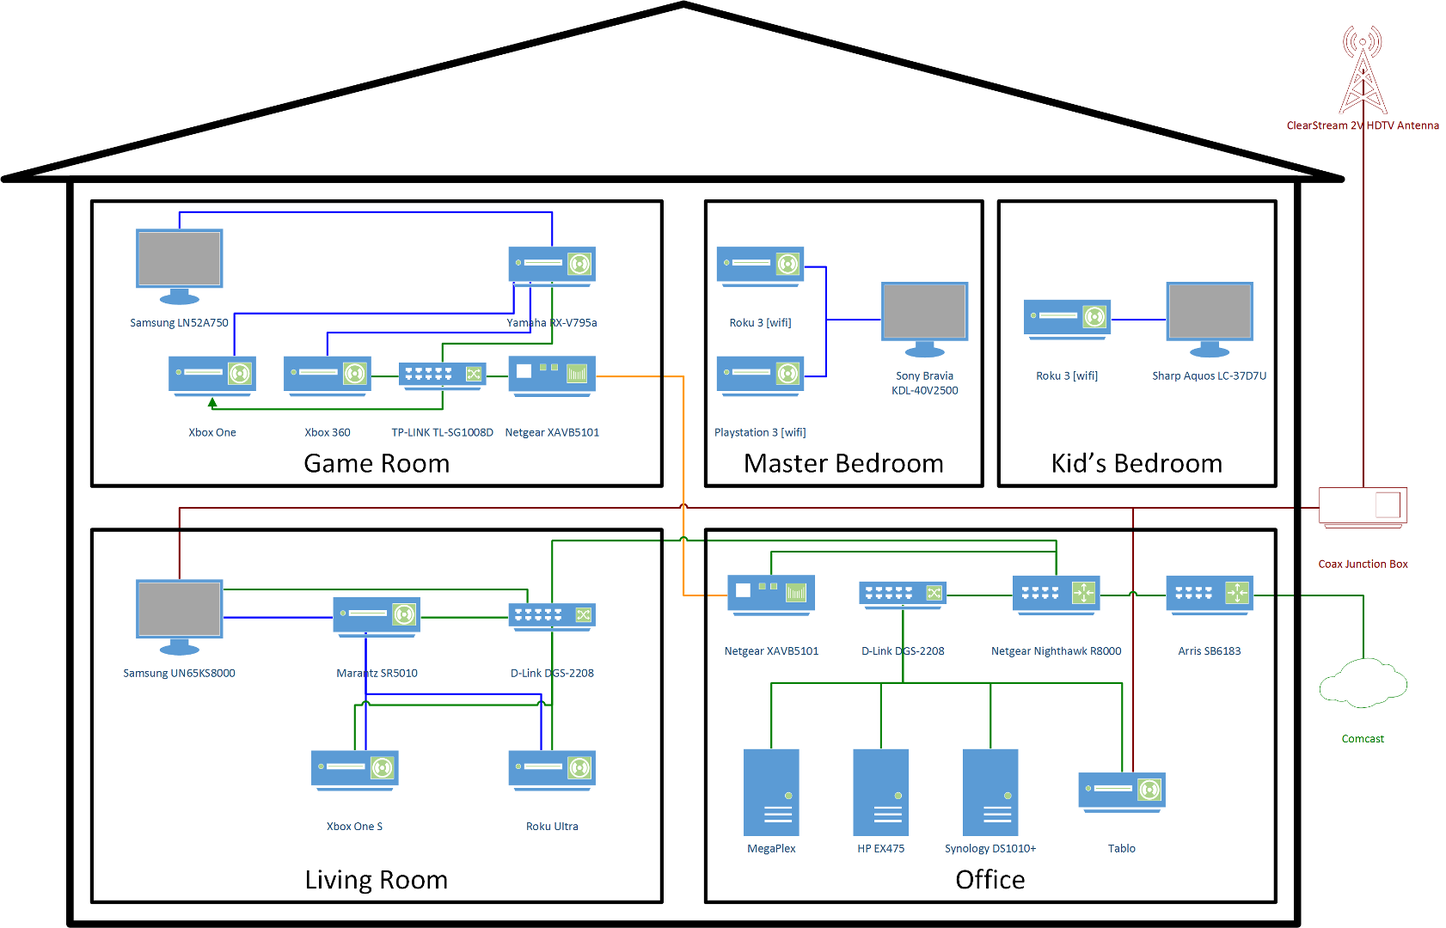
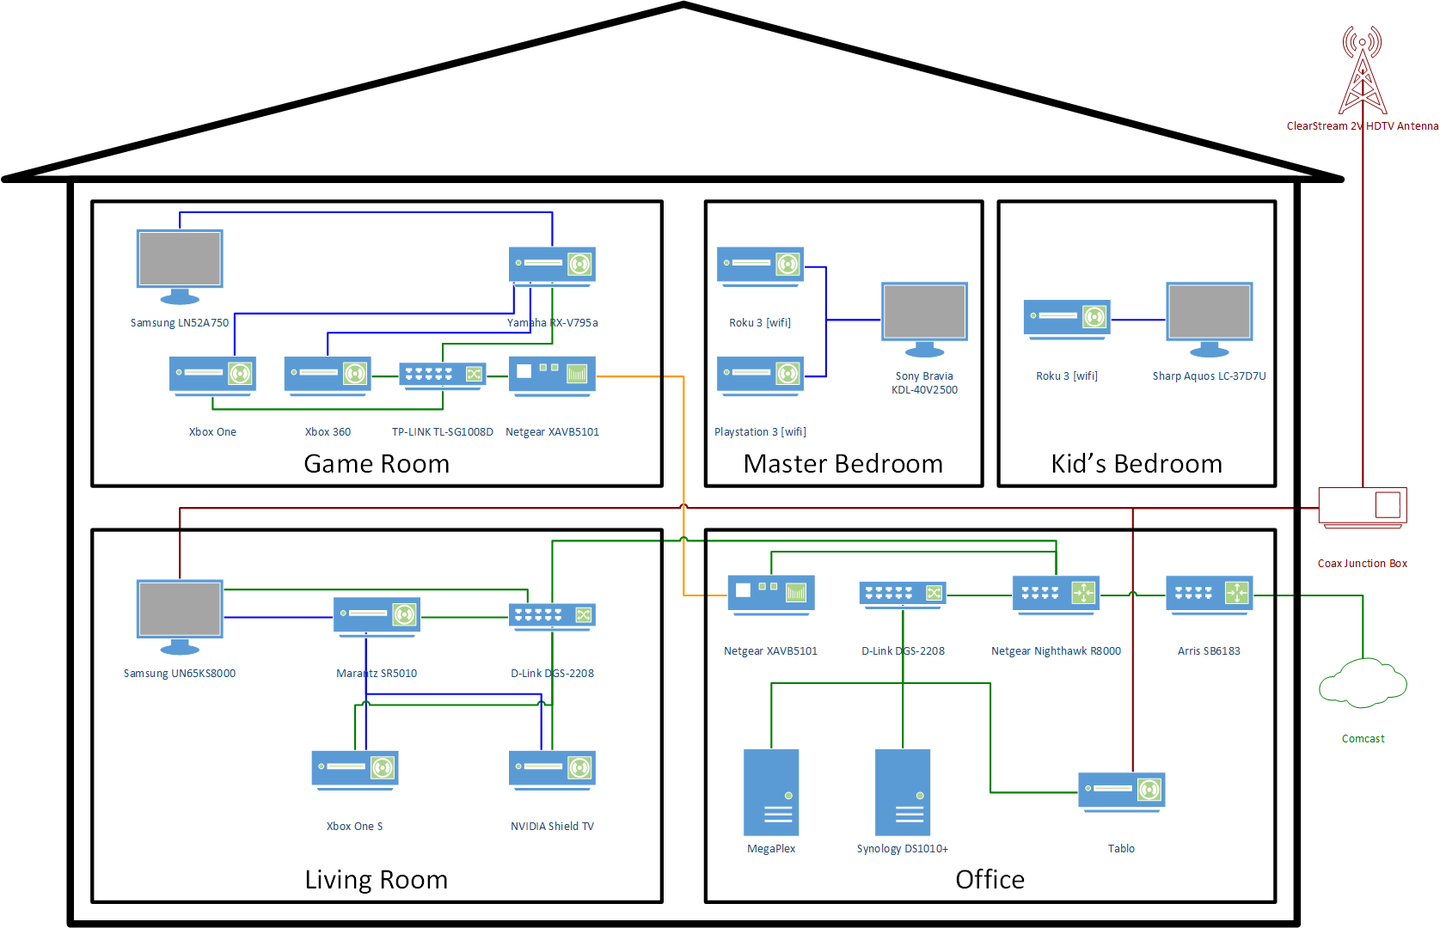
Major update to bring everything to current.

diff --git a/docs/hardware/deprecated/hpex475.rst b/docs/hardware/deprecated/hpex475.rst
@@ -2,7 +2,7 @@
 HP EX475 MediaSmart
 ===================
 
-I bought an HP EX475 MediaSmart server with :doc:`Windows Home Server v1 <../../software/deprecated/whs>` on it as my first foray into serving media and general media storage. In February 2016 I switched the OS to be :doc:`Windows Server 2012 with Windows Server Essentials <../../software/system/wse>`.
+I bought an HP EX475 MediaSmart server with :doc:`Windows Home Server v1 <../../software/deprecated/whs>` on it as my first foray into serving media and general media storage. In February 2016 I switched the OS to be :doc:`Windows Server 2012 with Windows Server Essentials <../../software/deprecated/wse>`.
 
 - 2GB RAM (upgraded)
 - AMD Sempron Processor 3400+ (upgraded)
@@ -24,7 +24,7 @@ There is a defect in WHS where the serial number of the drives inside the EX475 
 
 RAID Controller
 ---------------
-I discovered while setting up :doc:`Windows Server 2012 with Windows Server Essentials <../../software/system/wse>` that the OS actually sees the drives as a RAID-controlled array to be provisioned, not as separate SATA disks. **This makes it incompatible with Storage Spaces.** You can't allocate RAID disks into a Storage Space - you have to use RAID instead. I ended up putting the three 1TB drives into a RAID 5 configuration to balance storage and resilience.
+I discovered while setting up :doc:`Windows Server 2012 with Windows Server Essentials <../../software/deprecated/wse>` that the OS actually sees the drives as a RAID-controlled array to be provisioned, not as separate SATA disks. **This makes it incompatible with Storage Spaces.** You can't allocate RAID disks into a Storage Space - you have to use RAID instead. I ended up putting the three 1TB drives into a RAID 5 configuration to balance storage and resilience.
 
 WD Green Drives
 ---------------
@@ -45,7 +45,7 @@ eSATA Port Multiplier
 ---------------------
 I have a Rosewill RSV-S5 5-bay eSATA port multiplier. While it can support RAID configurations, I use it as JBOD ("Just a Bunch Of Disks"). There is `a review of a Sans Digital port multiplier similar to what I have here <http://www.mediasmartserver.net/2009/01/15/review-sans-digital-towerraid-tr5m-esata-storage-enclosure/>`_ and it says the EX475 will only recognize four of the five drives in a five-drive multiplier while the EX495 will see all five. I never put more than four drives in it so I can't say.
 
-After moving the big storage to the :doc:`Synology DS1010+ <synologyds1010>` I disconnected the port multiplier because it wasn't needed anymore, it was a tad noisy, and it ate power.
+After moving the big storage to the :doc:`Synology DS1010+ <../server/synologyds1010>` I disconnected the port multiplier because it wasn't needed anymore, it was a tad noisy, and it ate power.
 
 
 CPU / RAM
@@ -63,13 +63,13 @@ The stock Marvell SATA controller driver is 1.2.0.46. I tried upgrading the "Mar
 
 `This site says the EX470 (same internals as EX475, different drive configuration out of the box) has a Marvell 88SE6111 SATA controller <http://www.smallnetbuilder.com/content/view/30135/75/1/2/>`_, so I thought I'd be looking for drivers for that, but `this upgrade tutorial <http://www.homeserverhacks.com/2008/11/update-marvell-6121-esata-driver.html>`_ uses the 6121 drivers and even provides a link to 1.2.0.57. `This article also uses the 1.2.0.57 drivers <http://viztaview.wordpress.com/2009/03/05/drivers-for-hp-ex-47-mediasmart-servers/>`_. Most times we're looking at the WinXP 32-bit drivers for upgrade.
 
-I stopped fussing with the Marvell SATA drivers when I moved storage to the :doc:`Synology DS1010+ <synologyds1010>`.
+I stopped fussing with the Marvell SATA drivers when I moved storage to the :doc:`Synology DS1010+ <../server/synologyds1010>`.
 
 WNAS Driver
 -----------
 There appears to be a defect with the WNAS driver where it reports high heat on the VRM (voltage regulator module). It's been ongoing since I got the machine. All drives in the system seem to work fine and the system generally reports healthy. I verified it had nothing to do with eSATA or the port multiplier. I've read on forums where a couple of people have seen this and it always comes out that there is some sort of misreporting problem going on.
 
-The WNAS driver also appears to be what controls the lights on the HP EX475. After updating to :doc:`Windows Server 2012 with Windows Server Essentials <../../software/system/wse>` the lights on the drives and the system health light no longer functioned as they did in the Windows Home Server world.
+The WNAS driver also appears to be what controls the lights on the HP EX475. After updating to :doc:`Windows Server 2012 with Windows Server Essentials <../../software/deprecated/wse>` the lights on the drives and the system health light no longer functioned as they did in the Windows Home Server world.
 
 I found `a forum where someone reverse-engineered the driver for WHS 2011 <http://forum.wegotserved.com/index.php?/topic/18458-hp-ex48x-lights-management-driver-for-whs-2011/>`_ but it doesn't support the HP EX475. They claim they did it by reverse-engineering the WNAS driver. At some point I may look into this.
 
@@ -94,7 +94,7 @@ The 3.0 update does not contain any updated drivers.
 
 Upgrade to Windows Server 2012 Essentials
 =========================================
-January 8, 2013 was the last day of support for :doc:`Windows Home Server v1 <../../software/deprecated/whs>`. In February 2016 I upgraded to :doc:`Windows Server 2012 with Windows Server Essentials <../../software/system/wse>`.
+January 8, 2013 was the last day of support for :doc:`Windows Home Server v1 <../../software/deprecated/whs>`. In February 2016 I upgraded to :doc:`Windows Server 2012 with Windows Server Essentials <../../software/deprecated/wse>`.
 
 I basically followed `this article another person wrote on upgrading <http://www.wegotserved.com/2012/10/12/install-windows-server-2012-essentials-hp-mediasmart-server/>`_. I even made my own debug cable `rather than buying one <http://www.mediasmartserver.net/forums/viewtopic.php?f=6&t=8066>`_.
 
@@ -110,4 +110,4 @@ In June 2016, I noticed things were starting to run really slow. CrashPlan backu
 
 All of that along with the fact that this thing is headless... I lost confidence in the machine. It stopped behaving like an appliance.
 
-I started the process of moving all the data off the WHS machine and onto the :doc:`Synology DS1010+ <synologyds1010>`. I will probably keep it around for workstation backups but will move CrashPlan to a different machine.
+I started the process of moving all the data off the WHS machine and onto the :doc:`Synology DS1010+ <../server/synologyds1010>`. I completed this in late 2017 after moving all backups to IDrive and took the WHS offline.

diff --git a/docs/hardware/server/synologyds1010.rst b/docs/hardware/server/synologyds1010.rst
@@ -26,7 +26,7 @@ Aside: Synology does provide a "Video Station" package that has similar function
 Storage
 =======
 
-    - I have a bunch of WD Green drives I pulled out of my :doc:`Windows Home Server <hpex475>`. Synology forums have some posts about this. `This one says that some of the drives work fine while others don't <http://forum.synology.com/enu/viewtopic.php?f=151&t=19131>`_; `this one is about someone who is trying to avoid issues by switching away from WD Green <http://forum.synology.com/enu/viewtopic.php?f=124&t=23719>`_. I decided not to use these and instead go with some other drives.
+    - I have a bunch of WD Green drives I pulled out of my :doc:`Windows Home Server <../deprecated/hpex475>`. Synology forums have some posts about this. `This one says that some of the drives work fine while others don't <http://forum.synology.com/enu/viewtopic.php?f=151&t=19131>`_; `this one is about someone who is trying to avoid issues by switching away from WD Green <http://forum.synology.com/enu/viewtopic.php?f=124&t=23719>`_. I decided not to use these and instead go with some other drives.
     - `I should get the latest firmware off the website <http://www.synology.com/support/download.php?lang=enu>`_ for initial install. This will make sure everything is compatible with newer disks.
     - `There is a hardware compatibility list for supported drives <http://www.synology.com/support/faq_show.php?q_id=130>`_ on Synology devices.
 
@@ -36,4 +36,4 @@ Of the 2TB drives listed as directly supported, these seem reasonably viable. Ot
     - Seagate Barracuda XT ST32000641AS is 7200RPM, 6Gb/s, 64MB cache. `$250 at NewEgg <http://www.newegg.com/Product/Product.aspx?Item=N82E16822148506&Tpk=ST32000641AS>`_, `$270 at Amazon <http://www.amazon.com/dp/B002RWJHBM?tag=mhsvortex>`_.
     - Samsung Spinpoint HD203WI is 5400 RPM, 3Gb/s, 32MB cache. `$140 at NewEgg <http://www.newegg.com/Product/Product.aspx?Item=N82E16822152202&Tpk=HD203WI>`_, not at Amazon.
 
-In June 2016 I replaced the 2TB drives with 3TB drives so I could deprecate the :doc:`Windows Home Server <hpex475>` which had started getting finicky. I picked up five `WD Blue 3TB WD30EZRZ drives <http://amzn.to/28NCIKi>`_ (5400RPM, 64MB cache, $89 each) and went through the process of replacing one drive at a time. I went from an array of (7.15TB capacity / 5.8TB used / 1.35TB available) to (10.73 capacity / 5.8TB used / 4.93TB available) in a RAID 5 configuration.
+In June 2016 I replaced the 2TB drives with 3TB drives so I could deprecate the :doc:`Windows Home Server <../deprecated/hpex475>` which had started getting finicky. I picked up five `WD Blue 3TB WD30EZRZ drives <http://amzn.to/28NCIKi>`_ (5400RPM, 64MB cache, $89 each) and went through the process of replacing one drive at a time. I went from an array of (7.15TB capacity / 5.8TB used / 1.35TB available) to (10.73 capacity / 5.8TB used / 4.93TB available) in a RAID 5 configuration.

diff --git a/docs/plans/homeautomation.rst b/docs/plans/homeautomation.rst
@@ -115,7 +115,7 @@ One thing you can do with SmartThings is write a "SmartApp" that is a plugin for
 
 There is `a Google Home Helper app <http://thingsthataresmart.wiki/index.php?title=Google_Home_Helper>`_ (`source on GitHub <https://github.com/MichaelStruck/SmartThingsPublic/tree/master/smartapps/michaelstruck/google-home-helper.src>`_) that helps to bridge things Google Home doesn't naturally support (e.g., thermostats) using a SmartApp. The interesting thing about this is that it means you can use SmartApps in a similar manner to devices registered with SmartThings.
 
-`I picked up a SmartThings hub at Amazon <http://amzn.to/2i3iBO6>`_ for $50 when the price dropped. I haven't hooked it up yet.
+`I picked up a SmartThings hub at Amazon <http://amzn.to/2i3iBO6>`_ for $50 when the price dropped. It works pretty well with Google Home.
 
 Automating Blinds
 =================
@@ -159,6 +159,11 @@ Options here include things like `Axis <http://www.helloaxis.com/>`_ and `MySmar
 
 MySmartBlinds looks like it might work with standard Venetian blinds like we have now but it doesn't really integrate with anything quite yet.
 
+My Choice: Serena Shades
+------------------------
+
+We did a remodel in our house in late 2017 through early 2018. As part of that I got the Serena Shades. These work really well and integrate with the same hub as the Lutron Caseta switches we also got.
+
 Automating Lights
 =================
 
@@ -185,4 +190,4 @@ Three-way switches are a tricky thing. In a standard switch environment it's eas
 
 I originally considered the `GE Z-Wave switches <http://amzn.to/2uGR0oh>`_. They're affordable and I like that the three-way switches don't require remotes or "auxiliary" switches that use batteries - they're powered right off the wired electrical supply.
 
-However, I'm now thinking the `Lutron Caseta <http://www.casetawireless.com>`_ series of switches and dimmers would be better. Based on reading a lot of reviews like `this one on The Wirecutter <http://thewirecutter.com/reviews/best-in-wall-wireless-light-switch-and-dimmer/>`_ it seems a lot of folks are ending at the same conclusion. It does require a hub to work, but Google Home has first-class integration with it, so I'm not too concerned.
+As part of a home remodel I invested in the `Lutron Caseta <http://www.casetawireless.com>`_ series of switches and dimmers. Based on reading a lot of reviews like `this one on The Wirecutter <http://thewirecutter.com/reviews/best-in-wall-wireless-light-switch-and-dimmer/>`_ it seems a lot of folks are ending at the same conclusion. It does require a hub to work, but Google Home has first-class integration with itand it works well. It also is the same hub used for the Serena Shades I picked up.

diff --git a/docs/hardware/power/index.rst b/docs/hardware/power/index.rst
@@ -4,7 +4,7 @@ Power
 
 All of my devices are, at a minimum, plugged into proper surge protection devices. In some cases, like the servers, I have UPS (uninterruptable power supply - battery backup) units that can save me in the event of an outage.
 
-The UPS units in my office are connected to my servers via USB so they can monitor the UPS state. Both the :doc:`Windows Home Server <../server/hpex475>` and the :doc:`Synology DS 1010+ <../server/synologyds1010>` watch their UPS and are set to gracefully shut down if battery power gets too low.
+The UPS units in my office are connected to my servers via USB so they can monitor the UPS state. The :doc:`Synology DS 1010+ <../server/synologyds1010>` watches its UPS and are is to gracefully shut down if battery power gets too low.
 
 General Power Requirements
 ==========================
@@ -15,8 +15,8 @@ I bought a `Kill-a-Watt <http://www.amazon.com/dp/B000RGF29Q?tag=mhsvortex>`_ to
 Device                                                                Amps (A)  Watts (W)  Volt-Amps (VA)
 ====================================================================  ========  =========  ==============
 FiOS Router - Normal                                                  0.2       14         24
-:doc:`Windows Home Server <../server/hpex475>` - Normal               0.65      63         68
-:doc:`Windows Home Server <../server/hpex475>` - Peak                 1         92         98
+:doc:`Windows Home Server <../deprecated/hpex475>` - Normal           0.65      63         68
+:doc:`Windows Home Server <../deprecated/hpex475>` - Peak             1         92         98
 :doc:`Synology DS 1010+ <../server/synologyds1010>` - Normal          0.5       55         60
 :doc:`Xbox 360 <../frontend/xbox>` - Off/Sleep                        0.05      2          7
 :doc:`Xbox 360 <../frontend/xbox>` - Normal                           0.9       75.6       103

diff --git a/docs/hardware/receiver/marantzsr5010.rst b/docs/hardware/receiver/marantzsr5010.rst
@@ -6,8 +6,22 @@ The Marantz SR5010 was `picked up from Amazon for about $900 <http://www.amazon.
 
 .. image:: marantzsr5010.jpg
 
+General Overview
+================
+
 This is my first Marantz receiver and while I admittedly wasn't initially fond of the look of the unit, the setup and on-screen menu system is by far one of the easiest and most straightforward I've encountered.
 
 This is the second unit I've had that's had the HDMI passthrough feature allowing you to use the receiver as a video switcher without keeping the unit turned on. I'm guessing this is a common feature now, but it's the little things like this that make it.
 
 It's a native DLNA receiver so Bluetooth connectivity is less interesting than just "playing to" the receiver. You can cast audio or video at it without issue. (You can connect to it with Bluetooth if you want, however.)
+
+One thing I've noticed is that when it displays 4K content no on-screen display comes up. This includes the volume/source overlay information. It's really difficult to see the volume level without that.
+
+Network Control
+===============
+
+With the receiver in the cabinet and the 4K on-screen display problem mentioned earlier, I needed a way to see when the receiver was on, which source it was tuned to, and the volume level.
+
+To that end, I `created an Arduino-based volume monitor <http://www.paraesthesia.com/archive/2017/03/27/arduino-volume-monitor-for-marantz-receiver/>`_ that uses the HTTP network interface for the receiver.
+
+In April 2018 a firmware update came through that caused the network communication - both HTTP and Telnet based - to be unstable. Even streaming music services don't stream well. The network connection seems to reset periodically. I've opened a support ticket for the issue but it effectively renders the volume monitor useless.

diff --git a/docs/hardware/frontend/chromecast.rst b/docs/hardware/frontend/chromecast.rst
@@ -6,14 +6,6 @@ I picked up a `Google Chromecast <http://www.amazon.com/dp/B00DR0PDNE?tag=mhsvor
 
 .. image:: chromecast.jpg
 
-While I found it was an interesting concept, **I had a lot of challenge with it around networking**.
+While I found it was an interesting concept, **I had a lot of challenge with it around networking**. It took a lot of firmware versions after getting this thing in order to get it reliable.
 
-Regardless of how I positioned it, I could never get it to keep a good high-quality wireless signal. Of the "four bars" of quality it displays, two bars was pretty much all I could consistently keep, even in the room right next to the wireless access point.
-
-What this resulted in was an inordinate amount of buffering when watching :doc:`Netflix <../../services/netflix>`, in some cases enough so that I wouldn't get an HD picture until 10-15 minutes into the show.
-
-One day after watching two or three shows on it, I left the room and came back a few hours later. I couldn't get the Chromecast to consistently connect to the network *at all*. I reset it to factory defaults several times and never could get it to reconnect.
-
-I did some simple searches and found that this is actually a pretty common problem with the Chromecast - the wireless connectivity always seems to be mentioned in bad reviews.
-
-**I've given up on the Chromecast as anything more than a toy.** It doesn't really meet my "easy to use" :doc:`front-end device requirement <index>` and it definitely doesn't stay consistently connected.
+The :doc:`NVIDIA Shield TV <nvidiashield>` has Chromecast built in so using the Chromecast protocol has been a more interesting thing of late.

diff --git a/docs/processes/audio.rst b/docs/processes/audio.rst
@@ -4,7 +4,7 @@ Audio/Music Intake Process
 
 This is the process I go through when I get new music for my collection. Following this process helps me keep track of what I have (both for insurance purposes and so I don't buy duplicate stuff); and it makes sure I get everything into the system so it can be consumed by all of my devices.
 
-1. Add the music to :doc:`iTunes <../software/manage/itunes>`. iTunes keeps my music files organized and enables me to sync the music to my iPods, iPad, and so on. Adding it to iTunes automatically copies the files to my :doc:`Windows Home Server <../hardware/server/hpex475>` where it is picked up by :doc:`Asset UPnP <../software/serve/asset>` for serving to my devices.
+1. Add the music to :doc:`iTunes <../software/manage/itunes>`. iTunes keeps my music files organized and enables me to sync the music to my iPods, iPad, and so on. Adding it to iTunes automatically copies the files to my :doc:`Synology DS1010+ NAS <../hardware/server/synologyds1010>` where it is picked up by :doc:`Asset UPnP <../software/serve/asset>` and :doc:`Plex <../software/serve/plex>` for serving to my devices.
 
     1. If the music is on a physical disc (CD), convert to Apple Lossless.
     2. If the music is digital (MP3), add by dragging the music files into the library.

diff --git a/docs/software/index.rst b/docs/software/index.rst
@@ -6,11 +6,11 @@ Software
 
 I use :doc:`DVDFab HD Decrypter <rip/dvdfab>` and :doc:`MakeMKV <rip/makemkv>` for ripping disc contents into digital format, then :doc:`Handbrake <convert/handbrake>` for converting the ripped contents into a compatible format.
 
-I use :doc:`Picasa <manage/picasa>` for organizing my photos and :doc:`DVD Profiler <manage/dvdprofiler>` for managing my DVD collection.
+I use :doc:`PhotoDirector <manage/photodirector>` for organizing my photos and :doc:`DVD Profiler <manage/dvdprofiler>` for managing my DVD collection.
 
 My digital music is in :doc:`iTunes <manage/itunes>` but I keep track of the combined digital and disc music collection using :doc:`Music Collector <manage/musiccollector>`.
 
-My backup solution is :doc:`CrashPlan <system/crashplan>`, which handles both internal and off-site backup. That, combined with the workstation image-based backup of :doc:`Windows Server Essentials <system/wse>`, has me covered.
+My backup solution is :doc:`iDrive <system/idrive>`, which handles off-site backup. That, combined with the File History backup in Windows 10 (which also gets backed up by :doc:`iDrive <system/idrive>`), has me covered.
 
 .. toctree::
     :maxdepth: 2

diff --git a/docs/software/system/idrive.rst b/docs/software/system/idrive.rst
@@ -1,0 +1,14 @@
+======
+iDrive
+======
+
+:doc:`CrashPlan <../deprecated/crashplan>` decided to get out of the consumer backup business in 2017 so I had to find a new backup option. I ended up going with `iDrive <https://www.idrive.com/>`_ for a couple of reasons:
+
+- Reasonable price. It's not unlimited storage, but you can get 2TB for about the same price as what CrashPlan was running yearly. I didn't have that much backed up so that was fine.
+- Direct integration with :doc:`Synology <dsm>` and my :doc:`DS1010+ <../../hardware/server/synologyds1010>`. No need to mount the NAS as an external drive.
+
+There are three downsides to iDrive that I've found:
+
+- It can't back up network drives, so if I need to get things backed up they absolutely need to be on the :doc:`DS1010+ <../../hardware/server/synologyds1010>`.
+- It doesn't have a great retention policy configuration. Basically it just keeps adding files forever and you have to manually initiate a cleanup.
+- It doesn't have history. A new version of a file will overwrite the old version that was backed up, so if a file gets corrupted and that corrupt file gets backed up, you're done.

diff --git a/docs/software/system/dsm.rst b/docs/software/system/dsm.rst
@@ -6,7 +6,7 @@ DiskStation Manager
 
 Remote Shutdown
 ===============
-I have multiple UPS units, but when I only had one, I wanted to tie my :doc:`Windows Home Server <../../hardware/server/hpex475>` to the UPS and have it trigger other servers to shut down when the UPS went into a critical battery mode. I researched how to do remote shutdown on the Synology so I could potentially implement it, but I never did because I ended up adding a second UPS and tied one server to each.
+I have multiple UPS units, but when I only had one, I wanted to tie my :doc:`Windows Home Server <../../hardware/deprecated/hpex475>` to the UPS and have it trigger other servers to shut down when the UPS went into a critical battery mode. I researched how to do remote shutdown on the Synology so I could potentially implement it, but I never did because I ended up adding a second UPS and tied one server to each. I have since deprecated my Windows Home Server.
 
 If I set up SSH on the machine along with public key authentication, `I can use SSH to remote shutdown the Diskstation <http://forum.synology.com/enu/viewtopic.php?f=19&t=32549&p=129019#p129019>`_:
 

diff --git a/docs/hardware/index.rst b/docs/hardware/index.rst
@@ -13,11 +13,11 @@ Here's a photo of my current server rack in my office. Most of these are discuss
 
 From top to bottom, left to right, you see...
 
-- :doc:`Synology DS1010+ <server/synologyds1010>`, which provides video storage.
+- :doc:`Synology DS1010+ <server/synologyds1010>`, which provides all storage.
 - Some USB hard drives used with the :doc:`Tablo <server/tablo>`.
 - :doc:`Tablo <server/tablo>`, which handles over-the-air DVR services.
-- :doc:`HP EX475 Home Server <server/hpex475>`, which handles music storage/serving and photo storage.
-- A USB hard drive that holds on-site backups via :doc:`CrashPlan <../software/system/crashplan>`.
+- :doc:`HP EX475 Home Server <deprecated/hpex475>`, deprecated in late 2017.
+- A USB hard drive that used to hold :doc:`CrashPlan <../software/deprecated/crashplan>` data, deprecated in late 2017.
 - :doc:`CyberPower CP1500AVRLCD <power/index>`, the UPS that most (but not all) of this is plugged into.
 - :doc:`D-Link DGS-2208 switch <network/switches>`, connecting these together and linking back to the main network.
 - :doc:`Megaplex <server/megaplex>`, my custom dedicated Plex server.

diff --git a/docs/software/deprecated/picasa.rst b/docs/software/deprecated/picasa.rst
@@ -9,3 +9,5 @@ In recent times it appears that Google is trying to replace Picasa with `its "Ph
 * **It's user-centric, not family-centric.** I have pictures, my wife has pictures, and we want to keep them in a single place. Right now, my wife can open up Picasa under her Windows user account and see the same set of pictures I see in the same groups. Google Photos would make one of us the "owner" of the photos and we'd lose that single, central "picture repository" we currently enjoy.
 * **Picasa has great print control.** If I want to print photos, Picasa has really nice control over print preview, resizing to fit paper, and all of that; with Google Photos, it's all web-based so the print mechanism is up to the browser. No good.
 * **Picasa associates people with contacts, Google Photos doesn't.** I like that Picasa can say, "This face belongs to this person in your contacts list." Google Photos just groups similar faces. I'd like to put a name to the face, as it were. No can do.
+
+In 2016 Google dropped Picasa support and went entirely to Google Photos. At that time I switched to :doc:`PhotoDirector <../manage/photodirector>`.
